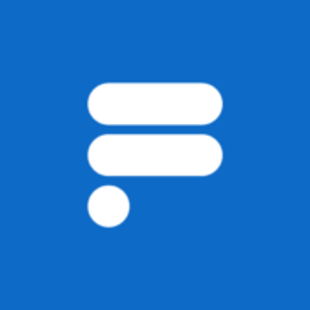
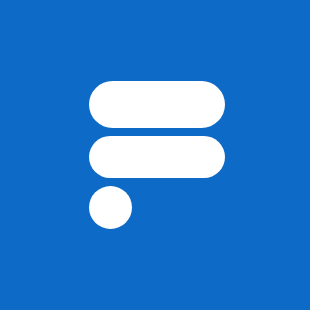
PWA stuff

diff --git a/packages/frontend/public/index.html b/packages/frontend/public/index.html
@@ -5,59 +5,14 @@
     <meta name="viewport" content="initial-scale=1, maximum-scale=1, minimum-scale=1, user-scalable=no, viewport-fit=cover"></meta>
     <meta name="apple-mobile-web-app-capable" content="yes"></meta>
     <meta name="apple-mobile-web-app-title" content="Financer">
-    <meta name="apple-mobile-web-app-status-bar-style" content="black"></meta>
+    <meta name="apple-mobile-web-app-status-bar-style" content="black-translucent"></meta>
     <link rel="stylesheet" href="https://rsms.me/inter/inter.css" />
     <link rel="icon" href="%PUBLIC_URL%/favicon.ico" />
     <link
-      rel="apple-touch-icon"
-      sizes="57x57"
-      href="%PUBLIC_URL%/apple-icon-57x57.png"
-    />
-    <link
-      rel="apple-touch-icon"
-      sizes="60x60"
-      href="%PUBLIC_URL%/apple-icon-60x60.png"
-    />
-    <link
-      rel="apple-touch-icon"
-      sizes="72x72"
-      href="%PUBLIC_URL%/apple-icon-72x72.png"
-    />
-    <link
-      rel="apple-touch-icon"
-      sizes="76x76"
-      href="%PUBLIC_URL%/apple-icon-76x76.png"
-    />
-    <link
-      rel="apple-touch-icon"
-      sizes="114x114"
-      href="%PUBLIC_URL%/apple-icon-114x114.png"
-    />
-    <link
-      rel="apple-touch-icon"
-      sizes="120x120"
-      href="%PUBLIC_URL%/apple-icon-120x120.png"
-    />
-    <link
-      rel="apple-touch-icon"
-      sizes="144x144"
-      href="%PUBLIC_URL%/apple-icon-144x144.png"
-    />
-    <link
-      rel="apple-touch-icon"
-      sizes="152x152"
-      href="%PUBLIC_URL%/apple-icon-152x152.png"
-    />
-    <link
-      rel="apple-touch-icon"
-      sizes="180x180"
-      href="%PUBLIC_URL%/apple-icon-180x180.png"
-    />
-    <link
       rel="icon"
       type="image/png"
-      sizes="192x192"
-      href="%PUBLIC_URL%/android-icon-192x192.png"
+      sizes="16x16"
+      href="%PUBLIC_URL%/favicon-16x16.png"
     />
     <link
       rel="icon"
@@ -72,16 +27,31 @@
       href="%PUBLIC_URL%/favicon-96x96.png"
     />
     <link
-      rel="icon"
-      type="image/png"
-      sizes="16x16"
-      href="%PUBLIC_URL%/favicon-16x16.png"
+      rel="apple-touch-icon"
+      sizes="120x120"
+      href="%PUBLIC_URL%/apple-icon-120x120.png"
     />
+    <link
+      rel="apple-touch-icon"
+      sizes="152x152"
+      href="%PUBLIC_URL%/apple-icon-152x152.png"
+    />
+    <link
+      rel="apple-touch-icon"
+      sizes="167x167"
+      href="%PUBLIC_URL%/apple-icon-167x167.png"
+    />
+    <link
+      rel="apple-touch-icon"
+      sizes="180x180"
+      href="%PUBLIC_URL%/apple-icon-180x180.png"
+    />
+    <link rel="mask-icon" href="%PUBLIC_URL%/safari-pinned-tab.svg" color="#1f78f0">
     <link rel="manifest" href="%PUBLIC_URL%/manifest.json" />
     <meta name="msapplication-TileColor" content="#0E6AC7" />
     <meta
       name="msapplication-TileImage"
-      content="%PUBLIC_URL%/ms-icon-144x144.png"
+      content="%PUBLIC_URL%/ms-icon-310x310.png"
     />
     <meta name="theme-color" content="#0E6AC7" />
     <title>Financer</title>
